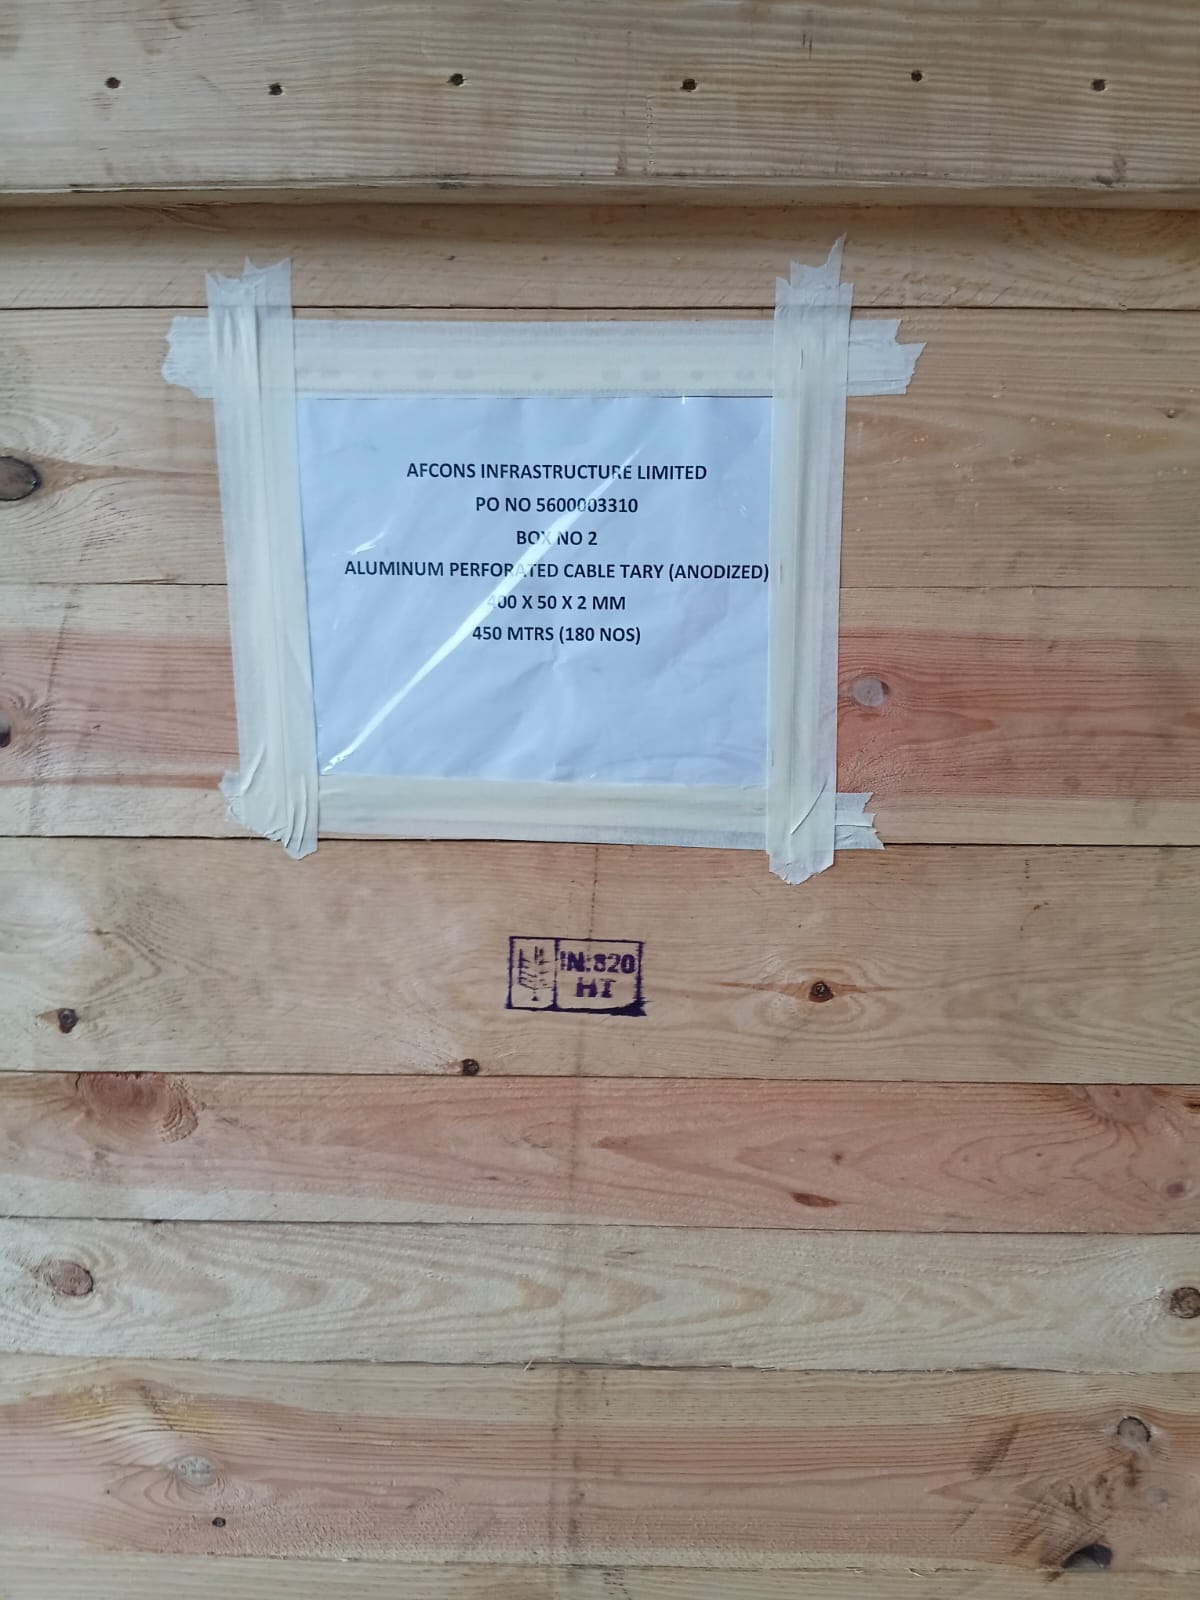
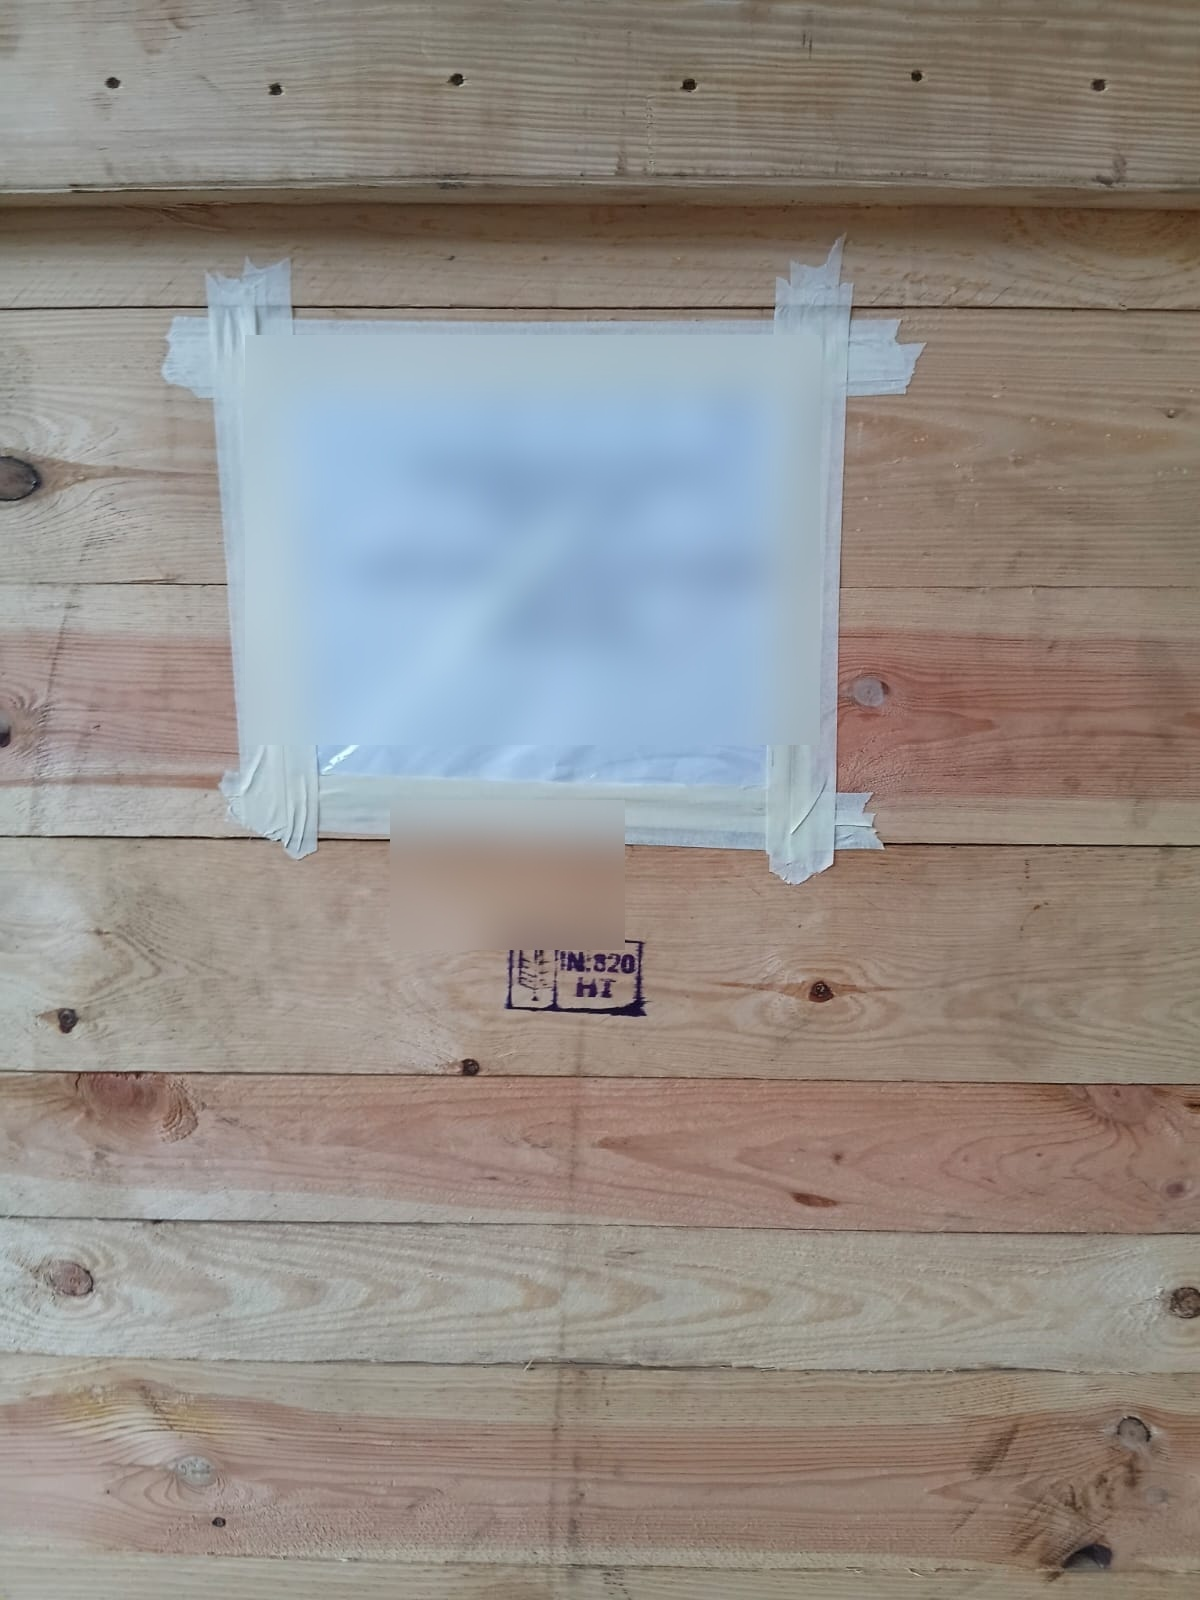
changes

diff --git a/src/pages/ServicesPage.tsx b/src/pages/ServicesPage.tsx
@@ -3,16 +3,10 @@ import { Link } from 'react-router-dom';
 import {
   ArrowDown,
   ArrowRight,
-  Box,
-  Cable,
   Check,
   ClipboardCheck,
-  Factory,
   Globe2,
-  Layers3,
   ShieldCheck,
-  SunMedium,
-  TowerControl,
 } from 'lucide-react';
 import { UPLOADED_PRODUCT_IMAGES } from '../data/productImages.ts';
 import ct1 from '../assets/images/ct1.jpg';
@@ -20,8 +14,7 @@ import hdg2 from '../assets/images/hpd1.jpg';
 import ctr2 from '../assets/images/ct2.jpg'
 
 const cableTrayImage = UPLOADED_PRODUCT_IMAGES['perforated-cable-tray'];
-const exportImage = UPLOADED_PRODUCT_IMAGES['59'];
-const heroImage = UPLOADED_PRODUCT_IMAGES['58'];
+const heroImage = UPLOADED_PRODUCT_IMAGES['ladder-cable-tray'];
 
 interface ServicesPageProps {
   onOpenRFQ: () => void;
@@ -31,32 +24,38 @@ const APPLICATIONS = [
   {
     title: 'Hot-Dip Galvanized Cable Trays',
     description: 'Corrosion-protected cable management for suitable electrical installations, industrial facilities, and infrastructure projects.',
-    Icon: Cable,
+    image: cableTrayImage,
+    imageAlt: 'Hot-dip galvanized perforated cable tray',
   },
   {
     title: 'Ladder Cable Trays',
     description: 'Cable routing for suitable heavy-duty industrial and outdoor applications. Selection depends on cable loads, installation conditions, and project specifications.',
-    Icon: Layers3,
+    image: UPLOADED_PRODUCT_IMAGES['ladder-cable-tray'],
+    imageAlt: 'Ladder cable tray',
   },
   {
     title: 'GI Earthing Strips and Products',
     description: 'Galvanized earthing strips and related products for specified electrical earthing applications.',
-    Icon: TowerControl,
+    image: UPLOADED_PRODUCT_IMAGES.earthflat,
+    imageAlt: 'GI earthing strip',
   },
   {
     title: 'Structural Steel Components',
     description: 'Suitable fabricated steel components galvanized for industrial, construction, and infrastructure applications.',
-    Icon: Factory,
+    image: UPLOADED_PRODUCT_IMAGES.steel,
+    imageAlt: 'Structural steel component',
   },
   {
     title: 'Solar Mounting Components',
     description: 'Galvanized steel components for solar mounting applications where coating requirements and environmental conditions are suitable.',
-    Icon: SunMedium,
+    image: UPLOADED_PRODUCT_IMAGES.solar,
+    imageAlt: 'Solar mounting component',
   },
   {
     title: 'OEM Hot-Dip Galvanizing',
     description: 'Enquiries for suitable OEM steel parts and fabricated components, assessed by material, dimensions, design, quantity, and processing requirements.',
-    Icon: Box,
+    image: hdg2,
+    imageAlt: 'Hot-dip galvanized steel components',
   },
 ];
 
@@ -207,20 +206,18 @@ export const ServicesPage: React.FC<ServicesPageProps> = ({ onOpenRFQ }) => (
             Discuss Your Requirement <ArrowRight aria-hidden="true" className="h-4 w-4" />
           </button>
         </div>
-        <div className="grid gap-4 sm:grid-cols-2 lg:grid-cols-3">
-          {APPLICATIONS.map(({ title, description, Icon }, index) => (
-            <article key={title} className="group flex h-full flex-col rounded-lg border border-slate-200 bg-white p-5 shadow-sm transition duration-200 hover:-translate-y-1 hover:border-blue-200 hover:shadow-md sm:p-6">
-              <div className="mb-5 flex items-center justify-between">
-                <span className="inline-flex h-11 w-11 items-center justify-center rounded-md bg-blue-50 text-blue-900">
-                  <Icon aria-hidden="true" className="h-5 w-5" />
-                </span>
-                <span className="font-mono text-xs font-semibold text-slate-400">0{index + 1}</span>
+        <div className="grid gap-5 sm:grid-cols-2 lg:grid-cols-3">
+          {APPLICATIONS.map(({ title, description, image, imageAlt }) => (
+            <article key={title} className="group relative flex min-h-[300px] h-full flex-col overflow-hidden rounded-xl border border-slate-300 bg-blue-950 shadow-sm transition duration-300 hover:-translate-y-1 hover:border-blue-300 hover:shadow-lg">
+              <img src={image} alt={imageAlt} className="absolute inset-0 h-full w-full object-cover transition-transform duration-300 group-hover:scale-105" />
+              <div className="absolute inset-x-0 bottom-0 h-3/4 bg-gradient-to-t from-blue-950 via-blue-950/80 to-transparent" />
+              <div className="relative mt-auto p-5 sm:p-6">
+                <h3 className="max-w-sm text-xl font-extrabold leading-tight tracking-tight text-white">{title}</h3>
+                <p className="mt-3 text-sm leading-6 text-white/95">{description}</p>
+                <button type="button" onClick={onOpenRFQ} className="mt-5 inline-flex items-center gap-2 text-sm font-bold text-white transition-colors hover:text-red-300 focus-visible:outline-2 focus-visible:outline-offset-2 focus-visible:outline-white">
+                  Enquire about this service <ArrowRight aria-hidden="true" className="h-4 w-4 transition-transform group-hover:translate-x-1" />
+                </button>
               </div>
-              <h3 className="text-lg font-bold text-slate-900">{title}</h3>
-              <p className="mt-2 flex-1 text-sm leading-relaxed text-slate-600">{description}</p>
-              <button type="button" onClick={onOpenRFQ} className="mt-5 inline-flex items-center gap-2 self-start text-sm font-bold text-blue-900 transition-colors hover:text-red-600 focus-visible:outline-2 focus-visible:outline-offset-2 focus-visible:outline-blue-900">
-                Enquire about this service <ArrowRight aria-hidden="true" className="h-4 w-4 transition-transform group-hover:translate-x-1" />
-              </button>
             </article>
           ))}
         </div>
